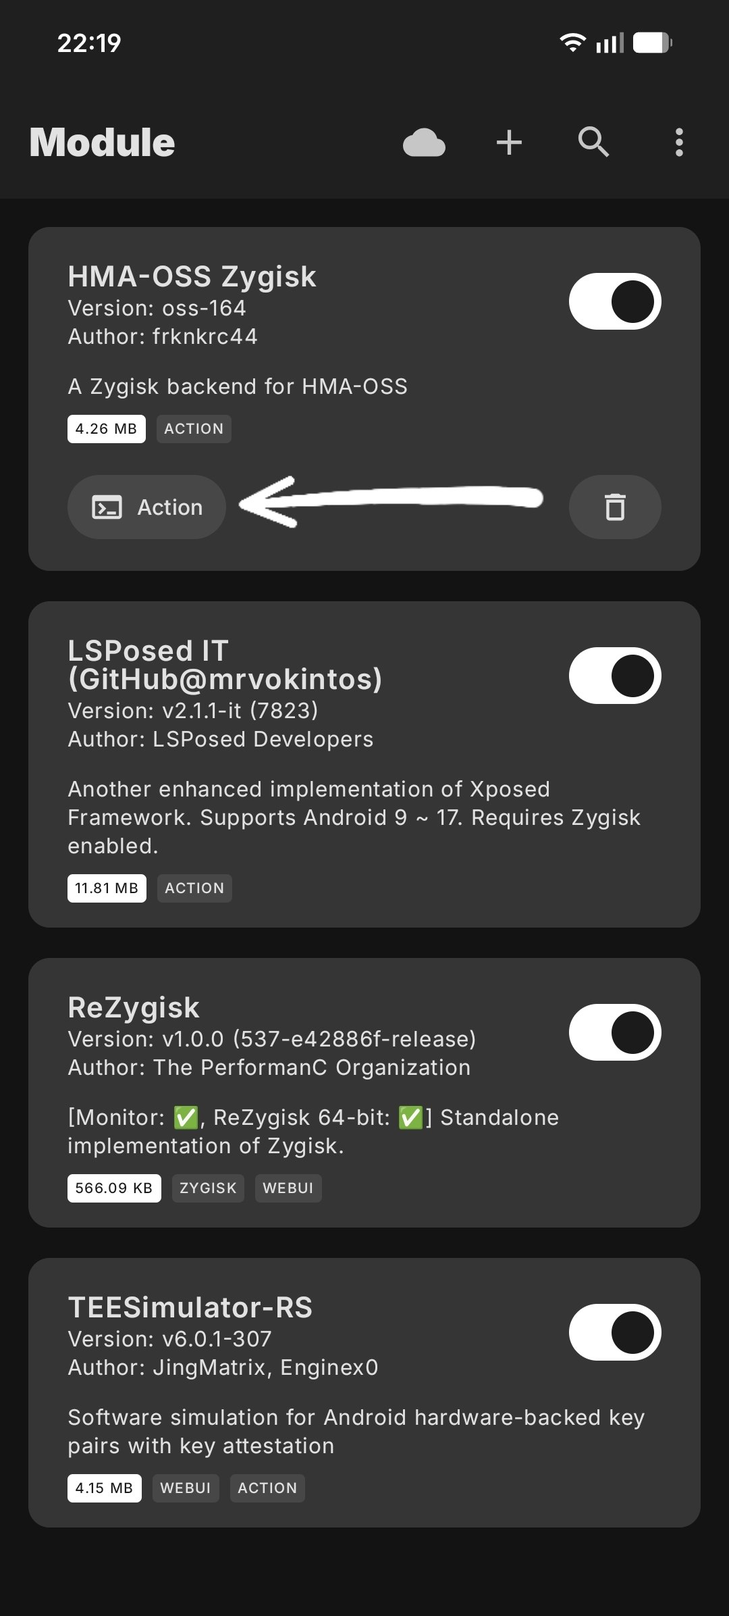
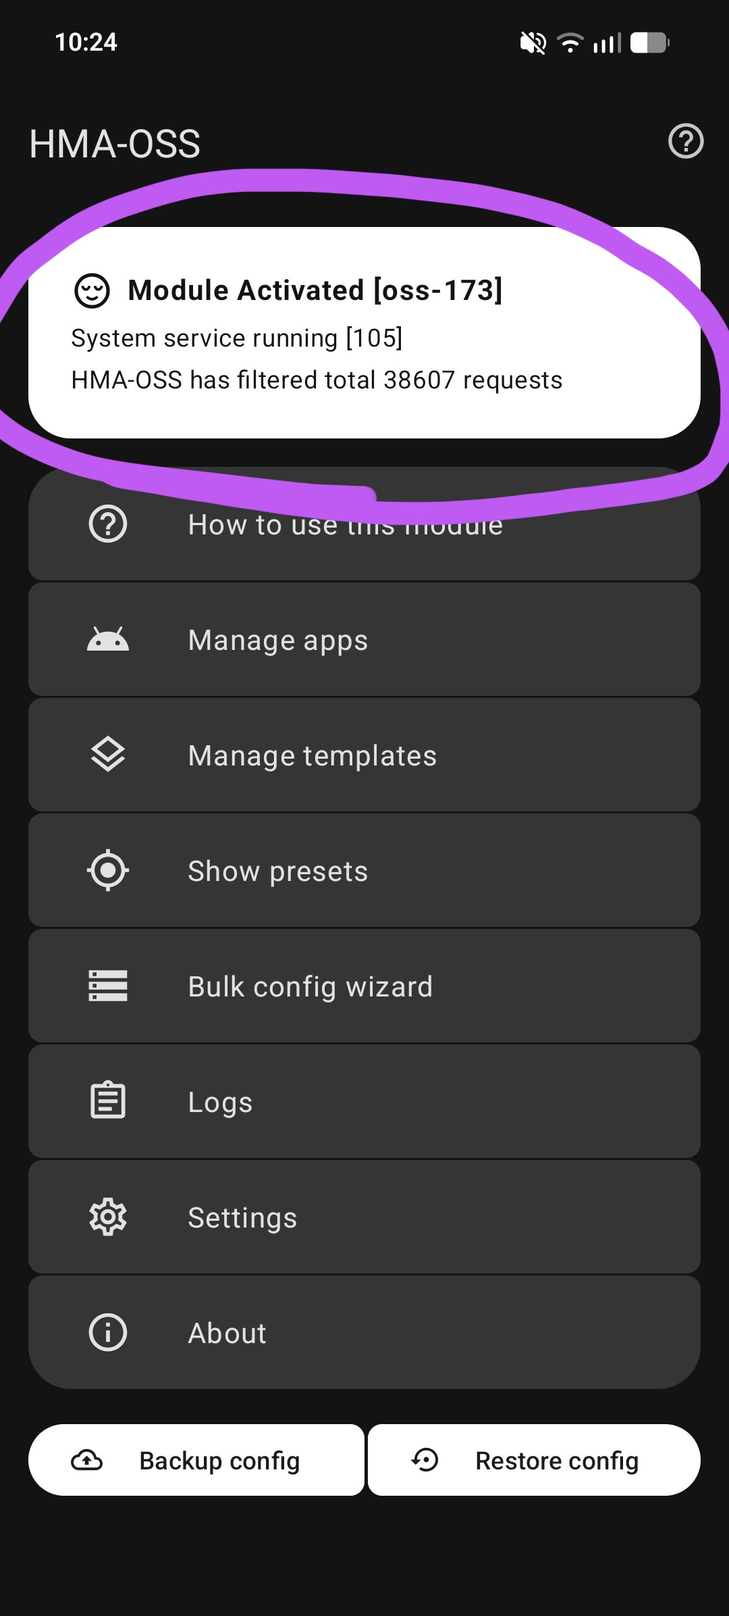
актуалачка + новые скрины

diff --git a/readme.md b/readme.md
@@ -4,20 +4,20 @@
 
 Я пользуюсь системой на английском (и вам советую), поэтому во время настройки у тебя могут возникнуть проблемы. Рекомендую хотя бы на время установки и настройки поставить английский как системный язык.
 
-#### ГАЙД АКТУАЛЕН НА КОНЕЦ ЛЕТА 2026 ГОДА
+#### ГАЙД АКТУАЛЕН ОСЕНЬЮ 2026 ГОДА
 
 ---
 # 1. Выбор рут менеджера
 
-Подавляющее большинство юзеров, к счастью, уже забыла про Magisk и его форки. Это правильное решение, т.к. несмотря на свою популярность, этот рут менеджер имеет тонну трейсов (остатков в системе), устаревший метод монтирования модулей и еще много, много минусов, по сравнению с современными решениями.
+Подавляющее большинство юзеров, к счастью, уже забыло про Magisk и его форки. Это правильное решение, т.к. несмотря на свою популярность, этот рут менеджер имеет тонну трейсов (остатков в системе), устаревший метод монтирования модулей и еще много, много минусов, по сравнению с современными решениями.
 
-Сегодня все популярные решения, не считая APatch и его форки, строятся на базе KernelSU. Его форков существует бесконечное количество, и каждый форк по-своему уникален. Это обусловленно множеством факторов, от технической базы до UI/UX.
+Сегодня все популярные решения, не считая APatch и его форки, строятся на базе KernelSU. Его форков существует бесконечное количество, и каждый форк по-своему уникален. Это обусловлено множеством факторов, от технической базы до UI/UX.
 
 В этом гайде я буду рассматривать только KernelSU Next (далее KSUN), так как этим менеджером пользуются мои знакомые, занимающиеся сборкой кастомных ядер Android.
 
 Ключевые отличия KSUN - частота выхода новых обновлений, активная поддержка от сообщества и большое количество пользователей, готовых помочь с проблемами и ошибками.
 
-В этот раз будем устанавливать KSUN в LKM режиме (на уровне модуля ядра), а не GKI (на уровне драйвера), так как этот метод является более универсальным и стабильным для мобильных устройств.
+В этот раз будем устанавливать KSUN в LKM режиме (на уровне модуля ядра), а не встраиванием в ядро (на уровне драйвера), так как этот метод является более универсальным и стабильным для мобильных устройств.
 
 ---
 # 2. Краткий курс по установке
@@ -38,15 +38,15 @@
 
 Необходимо скачать именно полный образ прошивки, а не OTA или GSI (если, конечно, у тебя нет желания повозиться с извлечением образов из payload'а)
 
-Скачав ту же версию прошивки, что стоит сейчас, на свой пк, открывай её через любой архиватор (7zip, WinRAR, но ***НЕ ВИНДОВЫЙ***) и ищи внутри файл init-boot.img (boot.img, если ramdisk находится там и/или у вас есть только init-boot.img; или init'а вообще нет в прошивке, что бывает крайне редко)
+Скачав ту же версию прошивки, что стоит сейчас, на свой пк, открывай её через любой архиватор (7zip, WinRAR, но ***НЕ ВИНДОВЫЙ***) и ищи внутри файл init_boot.img (или boot.img, если ramdisk находится там; или init'а вообще нет в прошивке, что бывает крайне редко)
 
 Данный файл необходимо любым способом перенести в удобное место на подопытном (тот, который будет прошиваться - это важно) смартфоне/планшете.
 
-После этого, переходим в [репозиторий KSUN](https://github.com/KernelSU-Next/KernelSU-Next/releases/latest) и устанавливаем последний стабильный релиз менеджера. Заходим и патчим наш образ init-boot.img в менеджере. На выходе получим файл в /sdcard/Download/, который смело отправляем на пк.
+После этого, переходим в [репозиторий KSUN](https://github.com/KernelSU-Next/KernelSU-Next/releases/latest) и устанавливаем последний стабильный релиз менеджера. Заходим и патчим наш образ init_boot.img в менеджере. На выходе получим файл в /sdcard/Download/, который смело отправляем на пк.
 
-Теперь самая трудная часть для пользователей китайских телефонов (в частности xiaomi): прошивка ядра. Процесс разблокировки загрузчика объяснять не буду, т.к. на каждый девайс это делается по-своему (спасибо нашим китайским братьям, нам же так не хватало MI Unlock с кулдауном 70-170 часов для разблокировки). Вкратце, гуглишь, как прошить ядро на своем девайсе и смотришь/читаешь гайды (рекомендую искать на форумах, в текстовом формате).
+Теперь самая трудная часть для пользователей китайских телефонов (в частности xiaomi): прошивка ядра. Процесс разблокировки загрузчика объяснять не буду, т.к. на каждый девайс это делается по-своему (спасибо нашим китайским братьям, нам же так не хватало MI Unlock с кулдауном 70-170 часов для разблокировки). Вкратце: гуглишь, как прошить ядро на своем девайсе и смотришь/читаешь гайды (рекомендую искать на форумах, в текстовом формате).
 
-Универсальная команда для прошивки ядра на всех нормальных и околонормальных девайсах:
+Универсальная команда для прошивки образа на всех нормальных и околонормальных девайсах:
 ```
 fastboot flash init_boot PATCHED.img
 ```
@@ -62,9 +62,9 @@ fastboot flash boot PATCHED.img
 **Внимание!**
 ***Пропускайте этот пункт, если вы не знаете, что это такое, или не являетесь разработчиком***
 
-Возможно, раньше вы уже использовали build-in GKI драйвер KSU, т.к. это обусловлено бывшей актуальностью SUSFS, но после релиза KSU v3.0.0 этот костыльный модуль потерял популярность, а для повседневного использования оказался вреден.
+Возможно, раньше вы уже использовали built-in GKI драйвер KSU, т.к. это обусловлено бывшей актуальностью SUSFS, но после релиза KSU v3.0.0 этот костыльный модуль потерял популярность, а для повседневного использования оказался вреден.
 
-Подробнее про это можно почитать [здесь](/gki-susfs.md)
+Подробнее про это можно почитать [здесь](./gki-susfs.md)
 
 ---
 # 3. Модули
@@ -73,83 +73,77 @@ fastboot flash boot PATCHED.img
 
 Быстро пройдемся по тому, что будем устанавливать:
 - [ReZygisk](https://github.com/PerformanC/ReZygisk/actions/workflows/trusted_ci.yml) [(TG)](https://t.me/rezygisk_ci) - открытая реализация Zygisk, нужна для работы модулей, использующих Zygisk API
-- [TEESimulator-RS](https://github.com/Enginex0/TEESimulator-RS) - обход TEE и скрытие статуса загрузчика. Требуется для Google Pay и прочих сервисов, требующих STRONG аттестацию PlayIntegrity
-- [TrickyAddon](https://github.com/KOWX712/Tricky-Addon-Update-Target-List) - дополнение для TEESimulator/TrickyStore. Добавляет WebUI (веб-интерфейс в рут-менеджере) для удобной и быстрой настройки
+- [TEESimulator](https://github.com/JingMatrix/TEESimulator) - обход TEE и скрытие статуса загрузчика. Требуется для Google Pay и прочих сервисов, требующих STRONG аттестацию Play Integrity
+- [Play Integrity Fork](https://github.com/osm0sis/PlayIntegrityFork) - форк Play Integrity Fix от osm0sis для подмены отпечатков и прохождения проверки Play Integrity (Device Integrity), необходим для работы Google Pay и банковских приложений
+- [Specter](https://github.com/dpejoh/specter) - прокачанный аналог TrickyAddon (WebUI). Сам цепляет новые приложения в target.txt, чтобы не лазить туда руками после каждой установки, плюс управляет кейбоксами и прячет включённый режим разработчика
 - [HMA-OSS](https://github.com/frknkrc44/HMA-OSS) - Zygisk-модуль (ранее использовал LSPosed-бэкенд) для скрытия наличия установленных приложений от других игр/приложений
 
 Прочие необязательные модули:
 - [Treat Wheel](https://github.com/PerformanC/Treat-Wheel-Zygisk) - модуль от разработчика ReZygisk. Своеобразный аналог Shamiko/Zygisk Assistant. Нужен для более сложных задач скрытия (кастомный rom и т.п.)
 - LSPosed IT - вспомогательный модуль. Открывает огромные возможности, всех не перечислить
 - [Vector](https://github.com/JingMatrix/Vector) - альтернатива LSPosed IT для тех, у кого нет доступа к Internal Test
-- [IAmNotADeveloper](https://github.com/xfqwdsj/IAmNotADeveloper) - LSPosed-модуль для скрытия включённых параметров разработчика
-- Metamodule - модуль системы монтирования. После выхода KernelSU v3.0.0 является обязательным для некоторых случаях. В базовом скрытии не участвует
+- Metamodule - модуль системы монтирования. После выхода KernelSU v3.0.0 является обязательным для некоторых случаев. В базовом скрытии не участвует
 
 Последовательность установки следующая (не уверен, что это влияет на что-то, но я всегда устанавливаю так):
 1. ReZygisk (без него другие модули не будут работать/даже не установятся)
-2. TEESimulator-RS
-3. TrickyAddon
+2. TEESimulator
+3. Play Integrity Fork
 4. HMA-OSS
+5. Specter
 
 ---
 # 4. Настройка модулей
 
-Настраивать всё вручную — затея долгая и бессмысленная. В тег [`configs`](https://github.com/mrvokintos/RootHide/releases/tag/configs) этого репозитория я закинул готовые конфиги для HMA и TEESimulator. Тебе остается их просто применить.
+Раньше приходилось вручную ковыряться в конфигах и закидывать файлы через проводник, но со Specter всё настраивается буквально в пару тапов:
 
-### 1. TEESimulator (TrickyStore)
-1. Скачиваешь [target.txt](https://github.com/mrvokintos/RootHide/releases/download/configs/target.txt).
+### 1. Specter (TEESimulator, Play Integrity Fork и конфиги)
+1. Заходишь во вкладку модулей в менеджере KSUN
 
-2. Любым рут-проводником закидываешь файл по пути `/data/adb/tricky_store/target.txt` (с заменой, если файл уже существует).
-
-3. Открываешь **WebUI** модуля TrickyAddon через рут-менеджер
+2. Запускаешь автоматический скрипт, который всё сделает за тебя (установит keybox, запустит pif, добавит все приложения в target.txt)
    <details>
      <summary>Скриншот</summary>
      <br>
-     <img src="/assets/tricky/tricky_1.jpg" width="24%">
-   </details>
-   
-4. - Выбираешь все установленные приложения
-   - Убираешь выбор ненужных
-   <br>
-   <details>
-     <summary>Скриншот</summary>
-     <br>
-     <img src="/assets/tricky/tricky_2.jpg" width="24%">
+     <img src="./assets/specter/specter_1.jpg" width="24%">
+     <img src="./assets/specter/specter_script.png" width="24%">
    </details>
 
-### 2. HMA-OSS
-
-1. Скачиваешь [HMA-OSS_config.json](https://github.com/mrvokintos/RootHide/releases/download/configs/HMA-OSS_config.json).
-
-2. Заходишь в HMA-OSS.
+3. Открываешь **WebUI** модуля Specter через менеджер и проверяешь, что всё работает
    <details>
      <summary>Скриншот</summary>
      <br>
-     <img src="/assets/hma/hma_1.jpg" width="24%">
+     <img src="./assets/specter/specter_webui.png" width="24%">
    </details>
 
-3. Жмёшь **Restore config** и выбираешь скачанный [HMA-OSS_config.json](https://github.com/mrvokintos/RootHide/releases/download/configs/HMA-OSS_config.json).
+4. В том же WebUI выставляешь автоапдейты всего и вся (keybox, периодическое обновление pif, автотаргетинг)
    <details>
      <summary>Скриншот</summary>
      <br>
-     <img src="/assets/hma/hma_2.jpg" width="24%">
+     <img src="./assets/specter/specter_jobs.jpg" width="24%">
    </details>
 
-4. Проверяешь, чтобы сервис HMA был активен.
+5. На соседней вкладке устанавливаешь конфиг для HMA-OSS
    <details>
      <summary>Скриншот</summary>
      <br>
-     <img src="/assets/hma/hma_3.jpg" width="24%">
+     <img src="./assets/specter/hma_config.jpg" width="24%">
+   </details>
+
+6. Проверяешь, чтобы сервис HMA был активен
+   <details>
+     <summary>Скриншот</summary>
+     <br>
+     <img src="./assets/hma/hma_1.jpg" width="24%">
    </details>
 
 После применения конфигов и обязательной перезагрузки получаем полностью скрытый рут:
    <details>
      <summary>Скриншот</summary>
      <br>
-  <img src="/assets/total/photo_1.jpg" width="20%">
-  <img src="/assets/total/photo_2.jpg" width="20%">
-  <img src="/assets/total/photo_3.jpg" width="20%">
-  <img src="/assets/total/photo_4.jpg" width="20%">
-  <img src="/assets/total/clip.png" width="30%">
+  <img src="./assets/total/photo_1.jpg" width="20%">
+  <img src="./assets/total/photo_2.jpg" width="20%">
+  <img src="./assets/total/photo_3.jpg" width="20%">
+  <img src="./assets/total/photo_4.jpg" width="20%">
+  <img src="./assets/total/clip.png" width="30%">
    </details>
 
 ---
@@ -159,7 +153,7 @@ fastboot flash boot PATCHED.img
    <details>
      <summary>Скриншот</summary>
      <br>
-     <img src="/assets/scam.png" width="24%">
+     <img src="./assets/scam.png" width="24%">
    </details>
 <br>
 

diff --git a/gki-susfs.md b/gki-susfs.md
@@ -2,7 +2,7 @@
 
 ### 2.2.1. Предисловие
 
-Возможно, до этого вы уже использовали build-in GKI драйвер KSU, т.к. это обусловлено бывшей актуальностью SUSFS, но после релиза KSU v3.0.0 этот костыльный модуль потерял популярность, а для повседневного использования оказался вреден
+Возможно, до этого вы уже использовали built-in GKI драйвер KSU, т.к. это обусловлено бывшей актуальностью SUSFS, но после релиза KSU v3.0.0 этот костыльный модуль потерял популярность, а для повседневного использования оказался вреден
 
 Раньше все сидели на GKI с вшитым KSU из-за SUSFS: это был такой костыль, чтобы хоть как-то прятать рут от проверок. Старый KernelSU не имел своих инструментов скрытия и реально палился. Но с выходом KernelSU v3.0.0 всё провернули: появился нормальный LKM режим, нативные хуки (частичный функционал SUSFS прямо в KSU) и адекватное скрытие без магии и плясок с бубном. В итоге SUSFS стал просто лишним балластом: он портит совместимость, добавляет глюков и делает систему более палевной, а не наоборот. GKI с вшитым KSU теперь выглядит как пережиток 2024 года: сегодня стоковое ядро + LKM работает стабильнее, обновляется без боли и не превращает систему в фарш из патчей.
 
@@ -25,7 +25,7 @@ chmod +x magiskboot
 
 4. Распаковываем ядро:
 ```
-magiskboot unpack boot.img
+./magiskboot unpack boot.img
 ```
 Появится несколько файлов (kernel, ramdisk)
 
@@ -33,6 +33,6 @@ magiskboot unpack boot.img
 
 6. Запаковываем ядро
 ```
-magiskboot repack boot.img
+./magiskboot repack boot.img
 ```
 Появится new-boot.img, его и прошиваем
